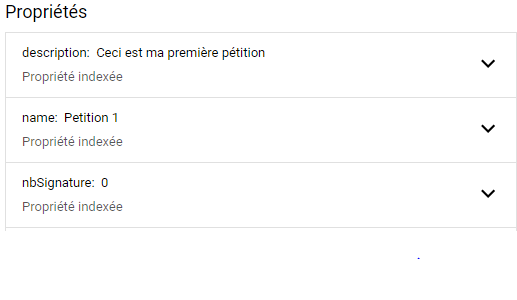
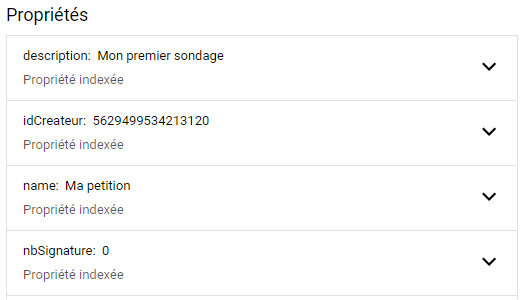
Cleaning project

diff --git a/src/main/java/etiennecorp/UtilisateurControler.java b/src/main/java/etiennecorp/UtilisateurControler.java
@@ -1,6 +1,7 @@
 package etiennecorp;
 
-import java.io.Console;
+import static com.googlecode.objectify.ObjectifyService.ofy;
+
 import java.io.IOException;
 
 import javax.servlet.annotation.WebServlet;
@@ -8,65 +9,42 @@ import javax.servlet.http.HttpServlet;
 import javax.servlet.http.HttpServletRequest;
 import javax.servlet.http.HttpServletResponse;
 
-import org.apache.commons.logging.Log;
-
-import com.google.appengine.api.datastore.DatastoreService;
-import com.google.appengine.api.datastore.DatastoreServiceFactory;
-import com.google.appengine.api.datastore.Entity;
-import com.google.appengine.api.datastore.FetchOptions;
-import com.google.appengine.api.datastore.Key;
-import com.google.appengine.api.datastore.PreparedQuery;
-import com.google.appengine.api.datastore.PreparedQuery.TooManyResultsException;
-import com.google.appengine.api.datastore.Query;
-import com.google.appengine.api.datastore.Query.CompositeFilter;
-import com.google.appengine.api.datastore.Query.CompositeFilterOperator;
+import com.google.appengine.api.users.UserService;
+import com.google.appengine.api.users.UserServiceFactory;
 import com.google.appengine.api.datastore.Query.Filter;
 import com.google.appengine.api.datastore.Query.FilterOperator;
 import com.google.appengine.api.datastore.Query.FilterPredicate;
-import com.google.appengine.api.datastore.Query.SortDirection;
-import com.google.appengine.api.users.UserService;
-import com.google.appengine.api.users.UserServiceFactory;
 
+@WebServlet(name = "UtilisateurControler", urlPatterns = { "/utilisateurapi" })
+public class UtilisateurControler extends HttpServlet {
 
+	private Utilisateur user;
+	private UserService userService;
 
-@WebServlet(
-	    name = "UtilisateurControler",
-	    urlPatterns = {"/hello"}
-	)
-public class UtilisateurControler extends HttpServlet{
-
-	private Entity user;
-	private DatastoreService datastore;
 	public UtilisateurControler() {
-		datastore = DatastoreServiceFactory.getDatastoreService();
+		userService = UserServiceFactory.getUserService();
 	};
-	
+
 	@Override
-	public void doGet(HttpServletRequest request, HttpServletResponse response) 
-		      throws IOException {
-		if(getUserFromRequest())
-		{
+	public void doGet(HttpServletRequest request, HttpServletResponse response) throws IOException {
+		Filter filt = new FilterPredicate("Name", FilterOperator.EQUAL, request.getParameter("name"));
+		Filter filt2 = new FilterPredicate("FirstName", FilterOperator.EQUAL, request.getParameter("firstname"));
+		Filter filt3 = new FilterPredicate("email", FilterOperator.EQUAL, userService.getCurrentUser().getEmail());
+		Object user = ofy().load().type(Signer.class).filter(filt).filter(filt2).filter(filt3).first().now();
+		if (user != null) {
 			response.setStatus(200);
-		}
-		else
-		{
+		} else {
 			response.setStatus(400);
 		}
 	}
-	public boolean getUserFromRequest()
-	{
-		Filter filt = new FilterPredicate("Name",FilterOperator.EQUAL,"Soleau");
-		Query q = new Query("utilisateur").setFilter(filt);
-		UserService userService = UserServiceFactory.getUserService();
-		System.out.println(userService.getCurrentUser().getUserId());
-		user = datastore.prepare(q).asSingleEntity();
-		if(user != null)
-		{
-			return true;
-		}
-		else
-		{
-			return false;
-		}
+
+	@Override
+	public void doPost(HttpServletRequest req, HttpServletResponse resp) throws IOException {
+		String name = req.getParameter("name");
+		String firstName = req.getParameter("firstName");
+		String pseudo = req.getParameter("pseudo");
+		String email = userService.getCurrentUser().getEmail();
+		user = new Utilisateur(name, firstName, pseudo, email);
+		Object r = ofy().save().entity(user);
 	}
 }

diff --git a/src/main/java/etiennecorp/SignerServlet.java b/src/main/java/etiennecorp/SignerServlet.java
@@ -13,34 +13,29 @@ import javax.servlet.http.HttpServletRequest;
 import javax.servlet.http.HttpServletResponse;
 import static com.googlecode.objectify.ObjectifyService.ofy;
 
-@WebServlet(
-    name = "SignerApi",
-    urlPatterns = "/signerapi"
-)
+@WebServlet(name = "SignerApi", urlPatterns = "/signerapi")
 public class SignerServlet extends HttpServlet {
 	private Signer signature;
-  @Override
-  public void doGet(HttpServletRequest req, HttpServletResponse resp) throws IOException {
-	  String email = UserServiceFactory.getUserService().getCurrentUser().getEmail();
-	  String sondage = req.getParameter("sondage");
-	  Filter f = new FilterPredicate(email,FilterOperator.EQUAL,"Signer");
-	  Filter f2 = new FilterPredicate(sondage,FilterOperator.EQUAL,"Signer");
-	  signature = ofy().load().type(Signer.class).filter(f).filter(f2).first().now();
-	  if(signature != null)
-	  {
-		  resp.setContentType("Sondage already signed");
-	  }
-	  else
-	  {
-		  resp.setContentType("Sondage not signed");
-	  }
-  }
-  
-  @Override
-  public void doPost(HttpServletRequest req, HttpServletResponse resp) throws IOException {
-	  String email = UserServiceFactory.getUserService().getCurrentUser().getEmail();
-	  String sondage = req.getParameter("sondage");
-	  Signer s = new Signer(email,sondage);
-	  Object r = ofy().save().entity(s);
-  }
+
+	@Override
+	public void doGet(HttpServletRequest req, HttpServletResponse resp) throws IOException {
+		String email = req.getParameter("iduser");
+		String petition = req.getParameter("idpet");
+		Filter f = new FilterPredicate(email, FilterOperator.EQUAL, "Signer");
+		Filter f2 = new FilterPredicate(petition, FilterOperator.EQUAL, "Signer");
+		signature = ofy().load().type(Signer.class).filter(f).filter(f2).first().now();
+		if (signature != null) {
+			resp.setContentType("Sondage already signed");
+		} else {
+			resp.setContentType("Sondage not signed");
+		}
+	}
+
+	@Override
+	public void doPost(HttpServletRequest req, HttpServletResponse resp) throws IOException {
+		String user = req.getParameter("iduser");
+		String petition = req.getParameter("idpet");
+		Signer s = new Signer(user, petition);
+		Object r = ofy().save().entity(s);
+	}
 }

diff --git a/src/main/java/etiennecorp/PetitionServlet.java b/src/main/java/etiennecorp/PetitionServlet.java
@@ -27,45 +27,44 @@ import com.google.appengine.api.datastore.Query.SortDirection;
 import com.google.appengine.api.users.UserService;
 import com.google.appengine.api.users.UserServiceFactory;
 
-
-
-@WebServlet(
-	    name = "UtilisateurControler",
-	    urlPatterns = {"/petitionapi"}
-	)
-public class PetitionServlet extends HttpServlet{
+@WebServlet(name = "PetitionServlet", urlPatterns = { "/petitionapi" })
+public class PetitionServlet extends HttpServlet {
 
 	private Petition pet;
 	private Entity petition;
 	private DatastoreService datastore;
+
 	public PetitionServlet() {
 		datastore = DatastoreServiceFactory.getDatastoreService();
 	};
-	
+
 	@Override
-	public void doGet(HttpServletRequest request, HttpServletResponse response) 
-		      throws IOException {
-		
+	public void doGet(HttpServletRequest request, HttpServletResponse response) throws IOException {
 		if (getPetition(request.getParameter("petitionId"))) {
 			response.setStatus(200);
 		} else {
 			response.setStatus(400);
 		}
 	}
-	public boolean getPetition(String idPetition)
-	{
-		Filter filt = new FilterPredicate("id",FilterOperator.EQUAL,idPetition);
+
+	public boolean getPetition(String idPetition) {
+		Filter filt = new FilterPredicate("id", FilterOperator.EQUAL, idPetition);
 		Query q = new Query("petition").setFilter(filt);
 		UserService userService = UserServiceFactory.getUserService();
-		System.out.println(userService.getCurrentUser().getUserId());
 		petition = datastore.prepare(q).asSingleEntity();
-		if(petition!= null)
-		{
+		if (petition != null) {
 			return true;
-		}
-		else
-		{
+		} else {
 			return false;
 		}
+	}
+
+	@Override
+	public void doPost(HttpServletRequest request, HttpServletResponse response) {
+		String idCreator = request.getParameter("idcreator");
+		String name = request.getParameter("name");
+		String description = request.getParameter("desc");
+		pet = new Petition(name, description, idCreator);
+		Object r = ofy().save().entity(pet);
 	}
 }

diff --git a/src/main/java/etiennecorp/Petition.java b/src/main/java/etiennecorp/Petition.java
@@ -7,16 +7,21 @@ import com.googlecode.objectify.annotation.Index;
 @Entity
 @Index
 public class Petition {
-	@Id Long id;
-	@Index String name;
+	@Id
+	Long id;
+	String name;
 	String description;
-	@Index int nbSignature;
+	@Index
+	int nbSignature;
+	@Index
+	String idCreateur;
 
-	public Petition(){};
-	
-	public Petition(String name, String description)
-	{
+	public Petition() {
+	};
+
+	public Petition(String name, String description, String idCreateur) {
 		this.name = name;
 		this.description = description;
+		this.idCreateur = idCreateur;
 	}
 }

diff --git a/src/main/java/etiennecorp/Signer.java b/src/main/java/etiennecorp/Signer.java
@@ -7,17 +7,18 @@ import com.googlecode.objectify.annotation.Index;
 @Entity
 @Index
 public class Signer {
-	@Id Long id;
+	@Id
+	Long id;
 	@Index
-	String email;
+	String idUser;
 	@Index
-	String sondage;
+	String idPetition;
 
 	public Signer() {
 	}
 
-	public Signer(String email, String sondage) {
-		this.email = email;
-		this.sondage = sondage;
+	public Signer(String idUser, String idPetition) {
+		this.idUser = idUser;
+		this.idPetition = idPetition;
 	}
 }

diff --git a/src/main/java/etiennecorp/Utilisateur.java b/src/main/java/etiennecorp/Utilisateur.java
@@ -16,11 +16,12 @@ public class Utilisateur {
 	
 	private Utilisateur(){};
 	
-	public Utilisateur(String name, String firstName, String pseudo)
+	public Utilisateur(String name, String firstName, String pseudo, String email)
 	{
 		this.name = name;
 		this.firstName = firstName;
 		this.pseudo = pseudo;
+		this.email = email;
 	}
 	
 	public void setEmail(String email)
